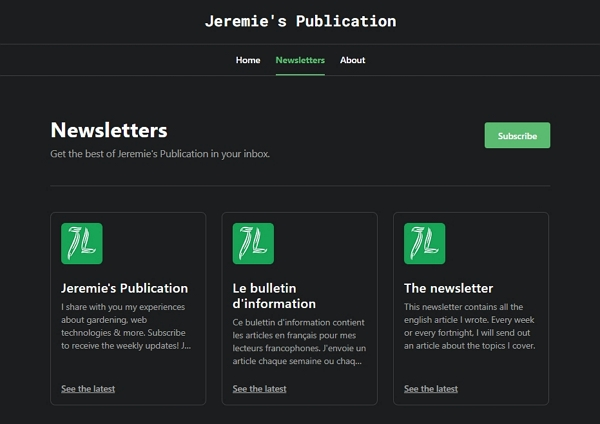
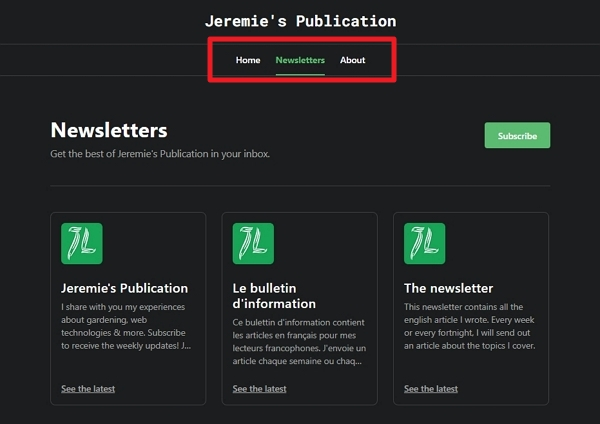
update articles 2023-06-06

Changed region(s): [[0.33, 0.0613, 0.69, 0.2146]]

diff --git a/docs/.vuepress/config.js b/docs/.vuepress/config.js
@@ -1,4 +1,4 @@
-const version = '1.0.642';
+const version = '1.0.643';
 
 import { defineUserConfig } from '@vuepress/cli';
 import { viteBundler } from '@vuepress/bundler-vite';

diff --git a/docs/2023/06/how-to-setup-substack-publication-for-2-languages-in-2023/README.md b/docs/2023/06/how-to-setup-substack-publication-for-2-languages-in-2023/README.md
@@ -27,19 +27,19 @@ Let’s look at the steps to set it up so you can provide contents in two langua
 <!-- markdownlint-disable MD033 -->
 <p class="newsletter-wrapper"><iframe class="newsletter-embed" src="https://iamjeremie.substack.com/embed" frameborder="0" scrolling="no"></iframe></p>
 
-When it comes to creating your newsletter with Substack, you have a wide choice of solutions.
+When it comes to creating your newsletter, you have a wide choice of solutions.
 
-I choose Substack because of its values: putting the writers first and provide efficient tools to help them grow their subscriber base.
+I chose Substack because of their values: putting the writers first and provide efficient tools to help them grow their subscriber base.
 
-However, when you speak 2 languages fluently, it isn’t straight forward how you can maintain a newsletter in each language.
+However, when you speak 2 languages fluently, it isn’t straight forward how you can maintain a newsletter in each language in a single publication.
 
 You could use two distinct publications, but I had written quite a few posts when I realized I needed to tidy up my publication regarding the dual-language content.
 
-Plus, some parts of the publication can’t be translated, yet.
+Plus, some parts of the publication can’t be translated anyways.
 
 ## English must be the default language
 
-As of today, you can’t set up all the content in your preferred language.
+As of today, you can’t set up all the texts in your preferred language.
 
 The following will be in English, so pick the values carefully:
 
@@ -51,10 +51,20 @@ The following will be in English, so pick the values carefully:
 - the Site design, which is simply the main color, the layout and font steps,
 - the Publication details, with your name, copyright and mailing address.
 
-Regarding the following, we will look at them in the following paragraphs:
+Some navigation tabs will always be in English, for now. However, the subscribing buttons will be translated to the visitor's browser language.
+
+For example, on my Chrome profile, I see:
+
+![Subscription embed on a English Chrome profile](./images/subscription-embed-on-a-english-chrome-profile.jpg)
+
+With a French Chrome profile, I see:
+
+![Subscription embed on a French Chrome profile](./images/subscription-embed-on-a-french-chrome-profile.jpg)
+
+Regarding the following, we will look at how to set them up in the following paragraphs:
 
 - the About page,
-- the welcome email,
+- the Welcome email,
 - the Navigation,
 - the Sections,
 - the Email banner, header, and footer settings
@@ -62,13 +72,13 @@ Regarding the following, we will look at them in the following paragraphs:
 
 ## Setup the About page
 
-I choose to write the content of this page in two languages.
+I chose to write the content of this page in two languages.
 
 You can [view it here](https://iamjeremie.substack.com/about).
 
 The setup is simple: I use `heading2` to separate the content of each language.
 
-I added a link to my blog for more detailed information, which is, of course, available in two languages.
+Also, I added a link to my blog for more detailed information, which is, of course, available in two languages.
 
 ## Setup sections to create a newsletter per language
 
@@ -82,15 +92,15 @@ For each one, you can customize:
 - the web URL of the section/newsletter.
 - the fact that you want to hide the posts under this section from the homepage.
 
-> Substack says:
->
-> > If checked, posts from this section won’t appear on your publication homepage or publication archive. Posts will still appear in the section’s page.
+Substack says about this point:
+
+> If checked, posts from this section won’t appear on your publication homepage or publication archive. Posts will still appear in the section’s page.
 
 - and a logo, if you need it to be different from the Publication logo.
 
 ## Setup the Navigation
 
-Once the sections are created, you can tidy up the navigation.
+Once the sections are created, you can tidy up the navigation, visible on top of each page of your publication.
 
 I don’t remember exactly the default, but you will have:
 
@@ -100,9 +110,9 @@ I don’t remember exactly the default, but you will have:
 - each Section page,
 - and the Newsletters page
 
-I hide the Archive page and the Sections I just created which are added automatically.
+I hide the Archive page and the Sections (which are added automatically on creation.
 
-That will give you a neat result:
+That will give you a neat result (highlighted in red):
 
 ![The newsletter page with a clean navigation](./images/the-newsletter-page-with-a-clean-navigation.jpg)
 

diff --git a/docs/2023/06/how-to-setup-substack-publication-for-2-languages-in-2023/welcome-email.md b/docs/2023/06/how-to-setup-substack-publication-for-2-languages-in-2023/welcome-email.md
@@ -18,13 +18,13 @@ If you are like me, you may wonder how to do that or this in a wide range of fie
 
 I would like to share my experiences and provide a good return on investment to you.
 
-You will start receiving updates right here in your inbox. You can also log in to Substack to read the archives in english or in french.
+You will start receiving updates right here in your inbox. You can also log in to [Substack](https://substack.com/) to read the archives [in english](https://iamjeremie.substack.com/s/the-newsletter?utm_source=blog_english) or [in french](https://iamjeremie.substack.com/s/le-bulletin-d-information?utm_source=blog_english).
 
 ### Enable the newsletter(s) you need
 
 From your SubStack account, you willl need to toggle the newsletter(s), either english, french or both, you want to receive notifications for.
 
-Use this link to access your settings. You will see this:
+Use [this link to access your settings](https://iamjeremie.substack.com/account). You will see this:
 
 ![Choose what you want to receive](./images/helping-the-subscriber-to-pick-his-optins.jpg)
 
@@ -39,7 +39,7 @@ Use the toggle to either:
 
 If you can’t find the newsletter, check your Spam folder. And please mark this address as ‘not spam.’ If the newsletter isn’t in your spam folder, either, you should look in the Promotions tab.
 
-You can always see everything on the SubStack website.
+You can always see everything on the [SubStack website](https://iamjeremie.substack.com/).
 
 Thanks again, and please recommend to your friends if you feel like it.
 
@@ -55,13 +55,13 @@ Si vous êtes comme moi, vous vous demandez peut-être comment faire ceci ou cel
 
 J'aimerais partager mes expériences et vous fournir un bon retour sur investissement.
 
-Vous commencerez à recevoir des mises à jour ici même dans votre boîte de réception. Vous pouvez également vous connecter au site Web pour lire les archives complètes (en anglais ou en en français).
+Vous commencerez à recevoir des mises à jour ici même dans votre boîte de réception. Vous pouvez également vous connecter [au site Web de Substack](https://substack.com/) pour lire les archives complètes ([en anglais](https://iamjeremie.substack.com/s/the-newsletter?utm_source=blog_english) ou [en français](https://iamjeremie.substack.com/s/le-bulletin-d-information?utm_source=blog_english)).
 
 ### Activez la ou les newsletters dont vous avez besoin
 
 Depuis votre compte SubStack, vous devrez basculer le ou les bulletins d’information, en anglais, en français ou les deux, pour lesquelles vous souhaitez recevoir des notifications.
 
-Utilisez ce lien pour accéder à vos paramètres concernant ma publication. Vous verrez ceci :
+Utilisez [ce lien pour accéder à vos paramètres concernant ma publication](https://iamjeremie.substack.com/account). Vous verrez ceci :
 
 ![Choisissez ce que vous voulez recevoir](./images/helping-the-subscriber-to-pick-his-optins.jpg)
 
@@ -77,7 +77,7 @@ Utilisez la bascule pour :
 
 Si vous ne trouvez pas le bulletin d’information, vérifiez votre dossier Spam. Et veuillez marquer cette adresse comme "non spam". Si le bulletin d’information ne se trouve pas non plus dans votre dossier Spam, vous devriez regarder dans l'onglet Promotions.
 
-Vous pouvez toujours tout voir sur le site Web.
+Vous pouvez toujours tout voir [sur le site Web de Substack](https://iamjeremie.substack.com/).
 
 Merci encore et recommendez moi à vos amis si vous en avez envie.
 

diff --git a/docs/2023/06/how-to-toggle-a-single-newsletter-on-my-publication/README.md b/docs/2023/06/how-to-toggle-a-single-newsletter-on-my-publication/README.md
@@ -24,4 +24,6 @@ If you subscribed before April 2023, you will find this useful.
 
 Following [this link](../how-to-setup-substack-publication-for-2-languages-in-2023/welcome-email.md#enable-the-newsletter-s-you-need), it will explain you how to opt-in to the newsletter you want.
 
+You have full control 😊
+
 [Contact me](../../../page/contact-me/README.md) if you need further assistance.
